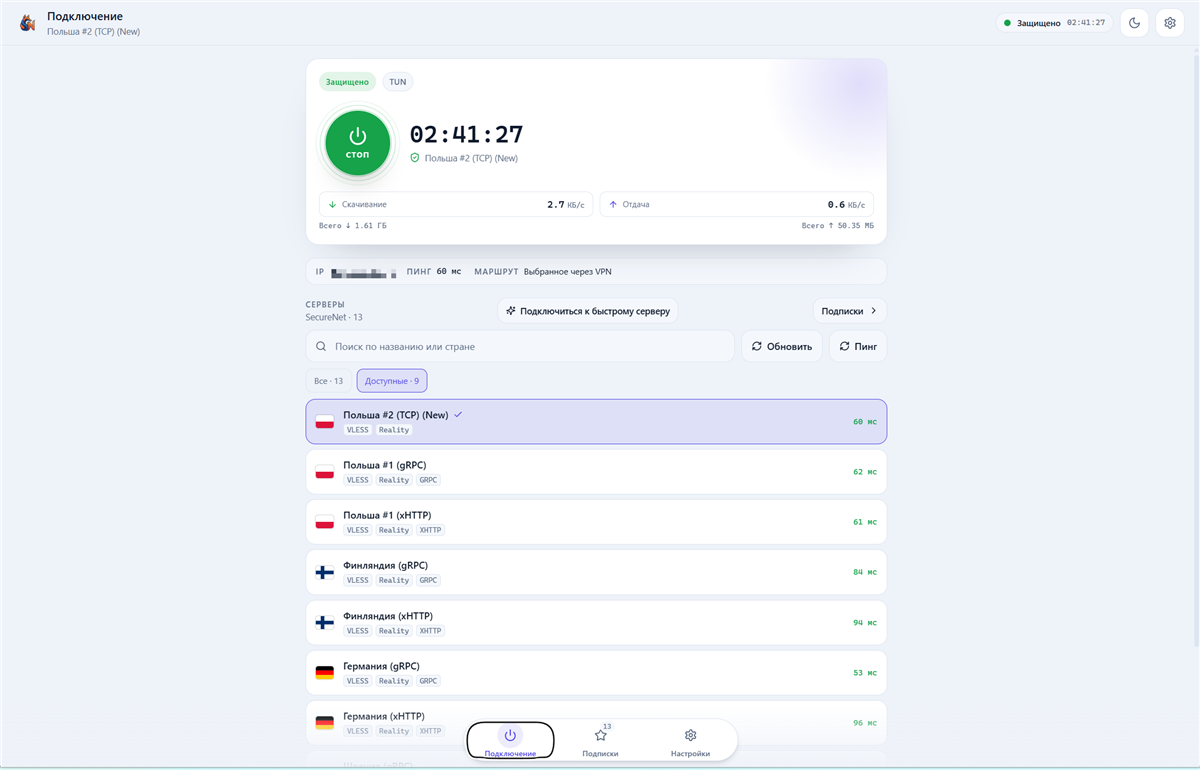
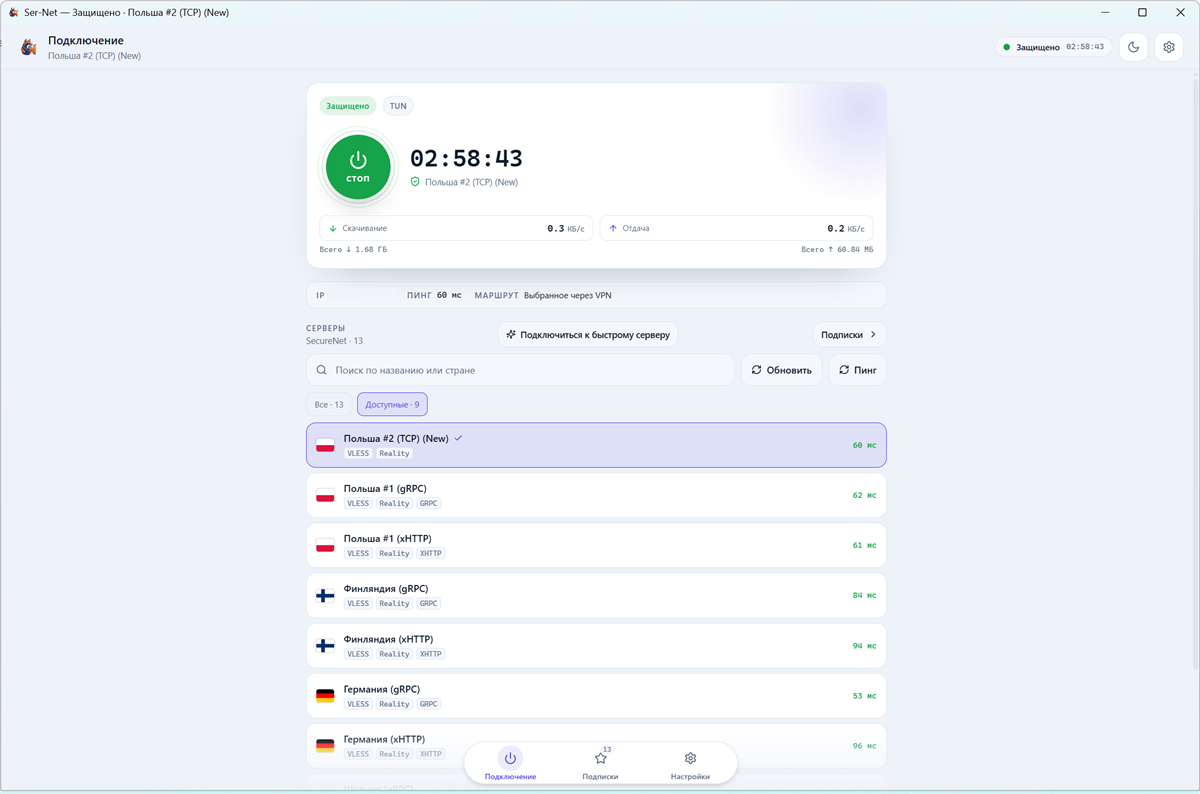
Update README screenshots from the app
Use fresh mouse-captured connection and pending Smart routing screens.
Sensitive IP, HWID and device name are hidden.

diff --git a/README.md b/README.md
@@ -37,7 +37,7 @@ Ser-Net — настольный VPN-клиент для Windows, который
 ## Скриншоты
 
 <p align="center">
-  <img src="docs/screenshots/connection.png" alt="Экран «Подключение»: статус, скорость, IP и список серверов" width="880">
+  <img src="docs/screenshots/connection.png" alt="Экран «Подключение»: статус, таймер, скорость и список серверов" width="880">
 </p>
 
 <p align="center"><em>Экран «Подключение»</em> — статус, скорость, IP и список серверов с задержкой. Публичный IP на снимке скрыт.</p>
@@ -46,7 +46,7 @@ Ser-Net — настольный VPN-клиент для Windows, который
   <img src="docs/screenshots/settings.png" alt="Настройки: режим подключения, темы, логи и маршрутизация" width="880">
 </p>
 
-<p align="center"><em>Настройки</em> — режим подключения, оформление, логи, режимы маршрутизации и сведения о версии. HWID и имя устройства скрыты.</p>
+<p align="center"><em>Настройки</em> — выбран «Умный режим»; видны ожидающие изменения. Кнопка «Применить» не нажата. HWID и имя устройства скрыты.</p>
 
 ## Возможности
 

diff --git a/README_EN.md b/README_EN.md
@@ -37,7 +37,7 @@ Ser-Net is a Windows desktop VPN client built on [Xray-core](https://github.com/
 ## Screenshots
 
 <p align="center">
-  <img src="docs/screenshots/connection.png" alt="Connection screen: status, speed, IP and server list" width="880">
+  <img src="docs/screenshots/connection.png" alt="Connection screen: status, timer, speed and server list" width="880">
 </p>
 
 <p align="center"><em>Connection screen</em> — status, speed, IP and servers with latency. The public IP is hidden in the screenshot.</p>
@@ -46,7 +46,7 @@ Ser-Net is a Windows desktop VPN client built on [Xray-core](https://github.com/
   <img src="docs/screenshots/settings.png" alt="Settings: connection mode, themes, logs and routing" width="880">
 </p>
 
-<p align="center"><em>Settings</em> — connection mode, appearance, logs, routing modes and version details. HWID and device name are hidden.</p>
+<p align="center"><em>Settings</em> — Smart mode is selected and pending changes are visible. Apply was not pressed. HWID and device name are hidden.</p>
 
 ## Features
 
